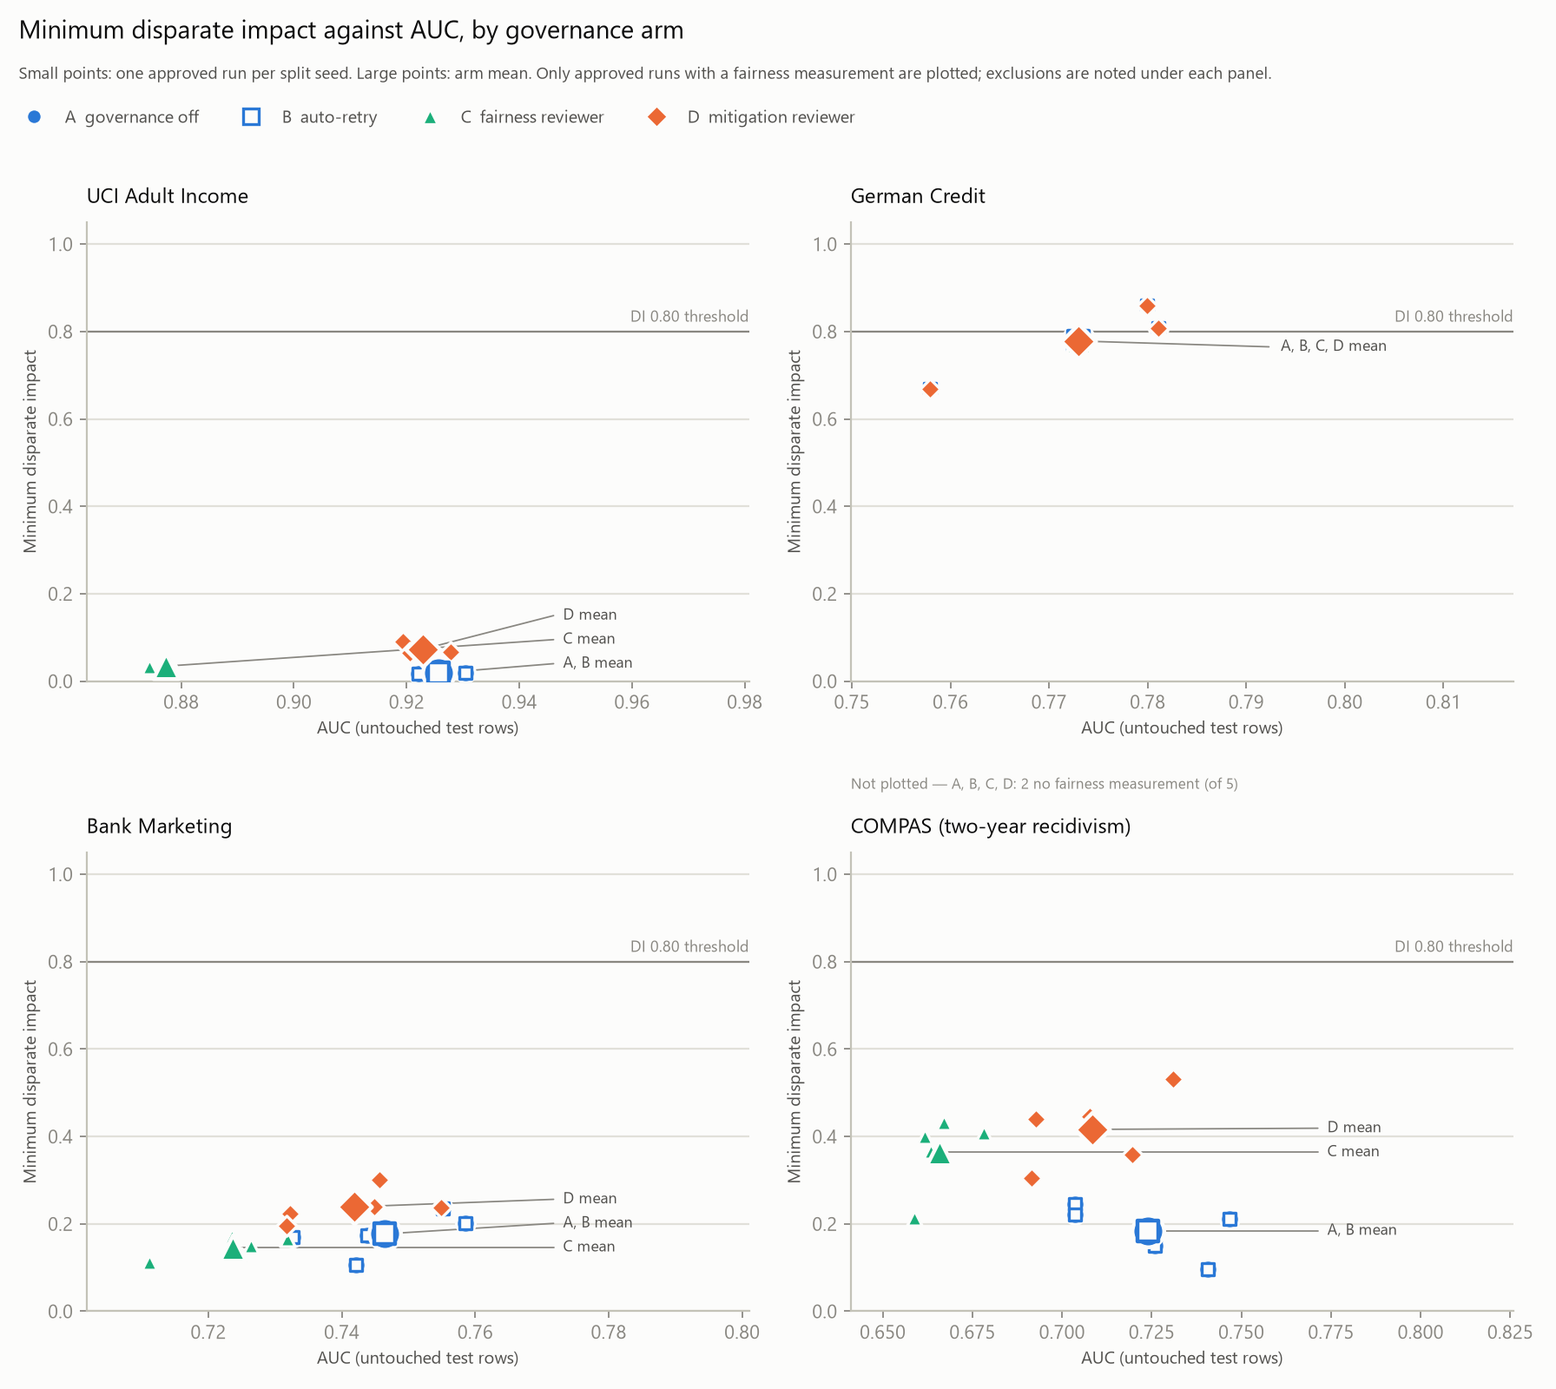
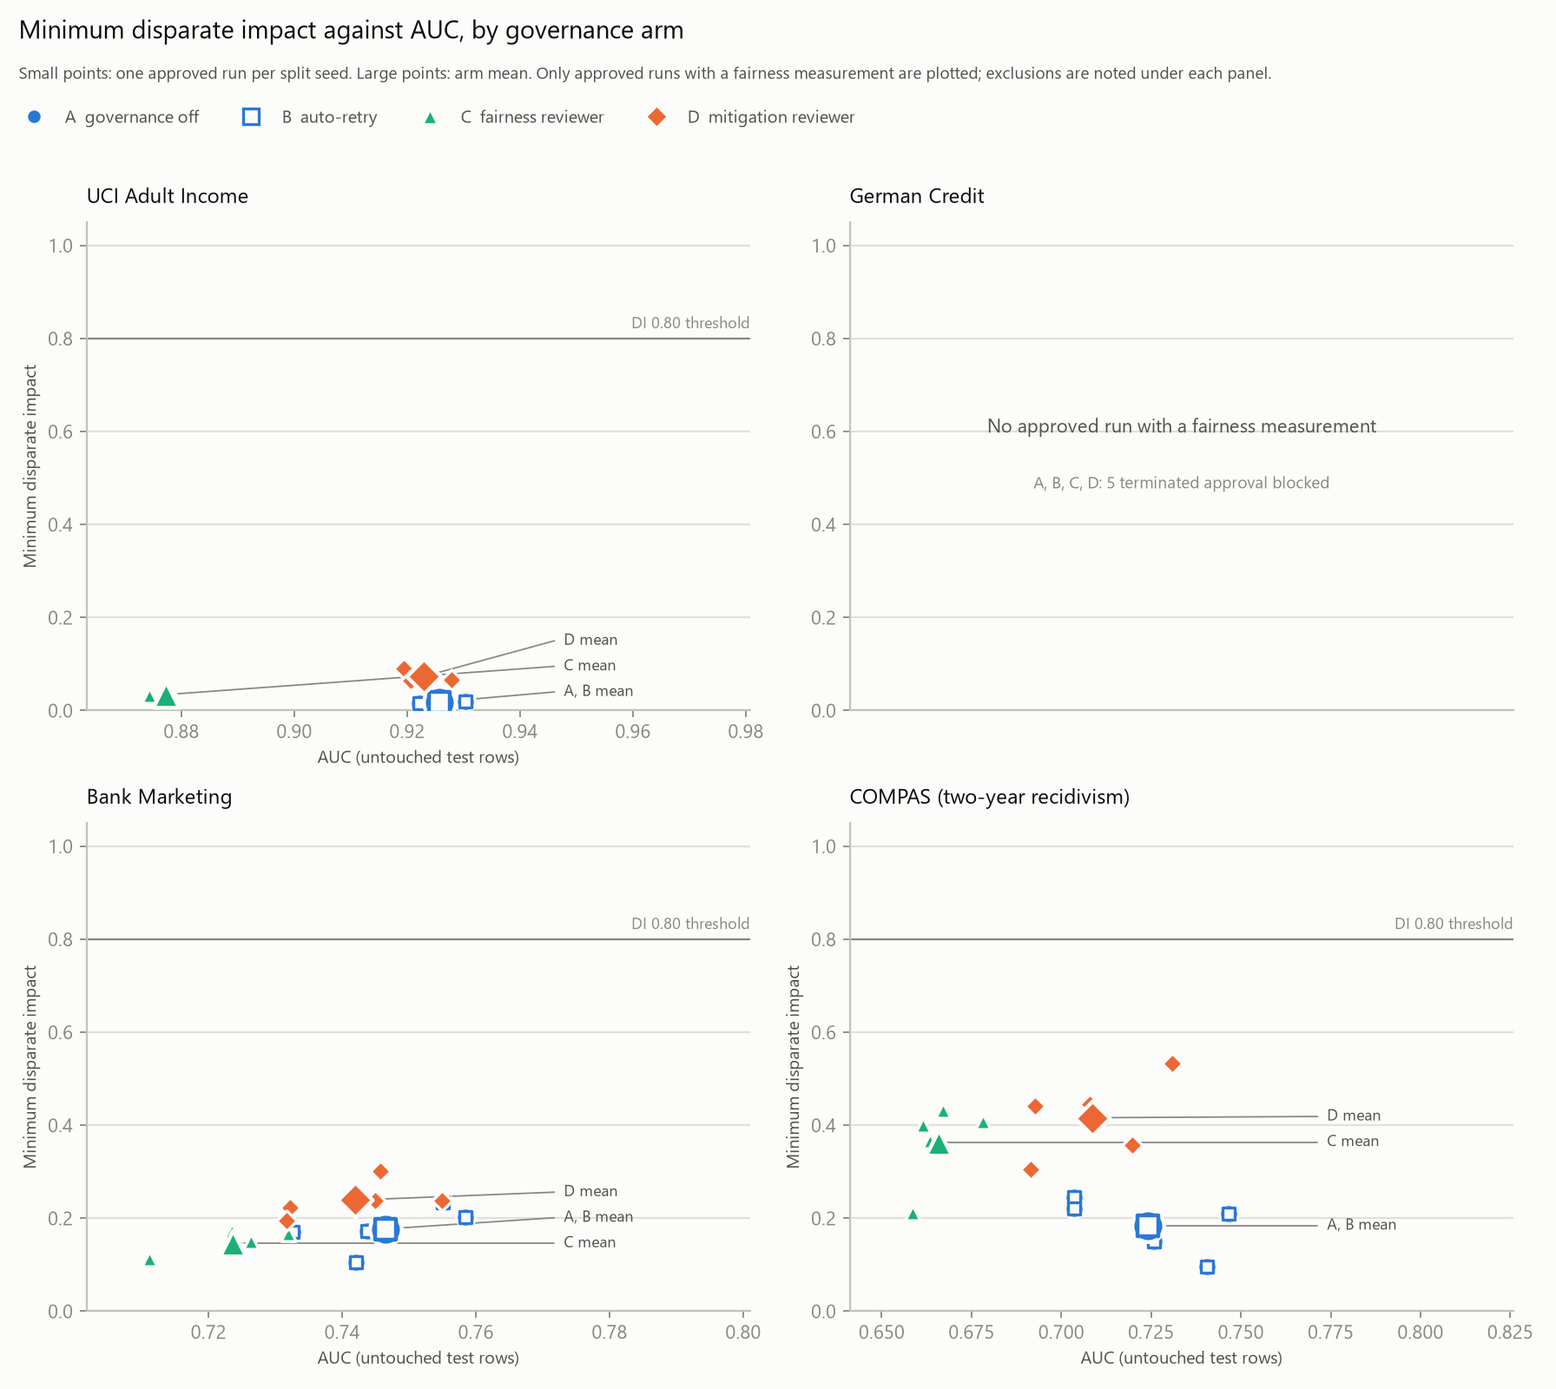
Re-run the evaluation under the governance policy; fix the dirty-tree check
80 runs, replay mode: 0 errors, 80/80 planner calls from cache, produced
from b2fd32b under policy.yaml 1.0.0 (SHA-256 3c05c76e...).

- All 20 German Credit runs now end terminated_approval_blocked. The gate
  verdict was NOT EVALUATED on every seed (no protected attribute auditable
  on 160 validation rows), and the policy refuses to approve a model whose
  fairness was not measured. Before the block, all four arms approved those
  models and the test rows then showed age violations on 3 of 5 seeds
  (d81faa2).
- The other 60 runs match d81faa2, except one AUC in the fourth decimal
  (COMPAS arm C seed 42, same RandomForest, 0.6670 -> 0.6671). All 60
  approved models violate on a protected attribute.

#31: _git_dirty ran after the harness wrote its own tracked result files, so
every manifest written into experiments/results reported git_dirty: true.
The check now excludes experiments/results. This run's manifest still shows
true; no tracked code file was modified during it. Earlier explanations that
attributed the flag to documentation edits were incomplete, and the README
now says so.

Docs: README evaluation table, findings 1, 4 and 5, and provenance;
NEXT_STEPS Step 4 re-run note; PROJECT_REVIEW rows 3.1 and #31.

diff --git a/experiments/run_governance_eval.py b/experiments/run_governance_eval.py
@@ -1046,13 +1046,17 @@ def _git_commit() -> Optional[str]:
 
 def _git_dirty() -> Optional[bool]:
     """
-    True if tracked files differ from HEAD.
+    True if tracked files other than the committed results differ from HEAD.
 
     git_commit alone is misleading when results come from uncommitted code: the
     manifest would name a commit that does not contain the code that produced it.
+    The results directory is excluded: this check runs after the harness has written
+    runs.csv and the trajectory, and counting its own outputs made every run look
+    dirty.
     """
     with contextlib.suppress(Exception):
-        out = subprocess.run(["git", "status", "--porcelain", "--untracked-files=no"],
+        out = subprocess.run(["git", "status", "--porcelain", "--untracked-files=no", "--",
+                              ".", ":(exclude)experiments/results"],
                              cwd=REPO_ROOT, capture_output=True, text=True, timeout=10)
         if out.returncode == 0:
             return bool(out.stdout.strip())

diff --git a/experiments/results/summary.md b/experiments/results/summary.md
@@ -1,8 +1,7 @@
 # Governance evaluation — results
 
 > Generated by `experiments/run_governance_eval.py` (replay mode) at
-> 2026-09-15T16:45:08.586895+00:00. Do not edit by hand; re-run the script.
-> Tables and figure rebuilt from the recorded CSVs at 2026-09-15T16:47:49.669698+00:00.
+> 2026-09-15T17:54:18.292561+00:00. Do not edit by hand; re-run the script.
 
 ## Setup
 
@@ -41,7 +40,7 @@
   planner does not propose them. **Max equal-opportunity difference** is the largest
   true-positive-rate gap between groups; it is reported, but it does not affect the verdict.
 - Runs: 80 · errors: 0 · wall
-  clock: 975.9 s.
+  clock: 991.6 s.
 
 ## Results by dataset
 
@@ -53,10 +52,10 @@
 
 | Arm | Approved | AUC | Accuracy | Fairness evaluated | Approved with a violation | Min disparate impact | Max parity difference | Max equal-opportunity difference | Protected attributes audited | Violated attributes | Reroutes | Retries | Seconds / run |
 |---|---|---|---|---|---|---|---|---|---|---|---|---|---|
-| **A** governance off | 5/5 | 0.926 ± 0.003 | 0.871 ± 0.004 | 5/5 | 5/5 | 0.018 ± 0.002 | 0.246 ± 0.002 | 0.310 ± 0.090 | 3.0 ± 0.0 | 3.00 ± 0.00 | 0.00 ± 0.00 | 0.00 ± 0.00 | 3.1 ± 0.1 |
-| **B** auto-retry | 5/5 | 0.926 ± 0.003 | 0.871 ± 0.004 | 5/5 | 5/5 | 0.018 ± 0.002 | 0.246 ± 0.002 | 0.310 ± 0.090 | 3.0 ± 0.0 | 3.00 ± 0.00 | 0.00 ± 0.00 | 0.00 ± 0.00 | 3.0 ± 0.0 |
-| **C** fairness reviewer | 5/5 | 0.877 ± 0.002 | 0.828 ± 0.001 | 5/5 | 5/5 | 0.034 ± 0.008 | 0.250 ± 0.016 | 0.342 ± 0.064 | 3.0 ± 0.0 | 3.00 ± 0.00 | 2.00 ± 0.00 | 0.00 ± 0.00 | 88.2 ± 1.0 |
-| **D** mitigation reviewer | 5/5 | 0.923 ± 0.003 | 0.869 ± 0.003 | 5/5 | 5/5 | 0.073 ± 0.018 | 0.202 ± 0.004 | 0.231 ± 0.076 | 3.0 ± 0.0 | 3.00 ± 0.00 | 2.00 ± 0.00 | 0.00 ± 0.00 | 7.4 ± 1.5 |
+| **A** governance off | 5/5 | 0.926 ± 0.003 | 0.871 ± 0.004 | 5/5 | 5/5 | 0.018 ± 0.002 | 0.246 ± 0.002 | 0.310 ± 0.090 | 3.0 ± 0.0 | 3.00 ± 0.00 | 0.00 ± 0.00 | 0.00 ± 0.00 | 3.3 ± 0.2 |
+| **B** auto-retry | 5/5 | 0.926 ± 0.003 | 0.871 ± 0.004 | 5/5 | 5/5 | 0.018 ± 0.002 | 0.246 ± 0.002 | 0.310 ± 0.090 | 3.0 ± 0.0 | 3.00 ± 0.00 | 0.00 ± 0.00 | 0.00 ± 0.00 | 3.1 ± 0.1 |
+| **C** fairness reviewer | 5/5 | 0.877 ± 0.002 | 0.828 ± 0.001 | 5/5 | 5/5 | 0.034 ± 0.008 | 0.250 ± 0.016 | 0.342 ± 0.064 | 3.0 ± 0.0 | 3.00 ± 0.00 | 2.00 ± 0.00 | 0.00 ± 0.00 | 86.7 ± 0.6 |
+| **D** mitigation reviewer | 5/5 | 0.923 ± 0.003 | 0.869 ± 0.003 | 5/5 | 5/5 | 0.073 ± 0.018 | 0.202 ± 0.004 | 0.231 ± 0.076 | 3.0 ± 0.0 | 3.00 ± 0.00 | 2.00 ± 0.00 | 0.00 ± 0.00 | 8.9 ± 2.6 |
 
 Arms A and B produced identical results on every seed: the automatic data-quality retry never engaged on this dataset.
 
@@ -68,10 +67,10 @@ Arms A and B produced identical results on every seed: the automatic data-qualit
 
 | Arm | Approved | AUC | Accuracy | Fairness evaluated | Approved with a violation | Min disparate impact | Max parity difference | Max equal-opportunity difference | Protected attributes audited | Violated attributes | Reroutes | Retries | Seconds / run |
 |---|---|---|---|---|---|---|---|---|---|---|---|---|---|
-| **A** governance off | 5/5 | 0.780 ± 0.014 | 0.753 ± 0.012 | 3/5 | 3/3 | 0.778 ± 0.099 | 0.178 ± 0.080 | 0.105 ± 0.039 | 1.0 ± 0.0 | 1.00 ± 0.00 | 0.00 ± 0.00 | 0.00 ± 0.00 | 2.0 ± 0.7 |
-| **B** auto-retry | 5/5 | 0.780 ± 0.014 | 0.753 ± 0.012 | 3/5 | 3/3 | 0.778 ± 0.099 | 0.178 ± 0.080 | 0.105 ± 0.039 | 1.0 ± 0.0 | 1.00 ± 0.00 | 0.00 ± 0.00 | 0.00 ± 0.00 | 2.0 ± 0.7 |
-| **C** fairness reviewer | 5/5 | 0.780 ± 0.014 | 0.753 ± 0.012 | 3/5 | 3/3 | 0.778 ± 0.099 | 0.178 ± 0.080 | 0.105 ± 0.039 | 1.0 ± 0.0 | 1.00 ± 0.00 | 0.00 ± 0.00 | 0.00 ± 0.00 | 2.0 ± 0.7 |
-| **D** mitigation reviewer | 5/5 | 0.780 ± 0.014 | 0.753 ± 0.012 | 3/5 | 3/3 | 0.778 ± 0.099 | 0.178 ± 0.080 | 0.105 ± 0.039 | 1.0 ± 0.0 | 1.00 ± 0.00 | 0.00 ± 0.00 | 0.00 ± 0.00 | 2.0 ± 0.7 |
+| **A** governance off | 0/5 | n/a | n/a | 0/0 | 0/0 | n/a | n/a | n/a | n/a | n/a | 0.00 ± 0.00 | 0.00 ± 0.00 | 1.9 ± 0.6 |
+| **B** auto-retry | 0/5 | n/a | n/a | 0/0 | 0/0 | n/a | n/a | n/a | n/a | n/a | 0.00 ± 0.00 | 0.00 ± 0.00 | 1.9 ± 0.7 |
+| **C** fairness reviewer | 0/5 | n/a | n/a | 0/0 | 0/0 | n/a | n/a | n/a | n/a | n/a | 0.00 ± 0.00 | 0.00 ± 0.00 | 1.8 ± 0.6 |
+| **D** mitigation reviewer | 0/5 | n/a | n/a | 0/0 | 0/0 | n/a | n/a | n/a | n/a | n/a | 0.00 ± 0.00 | 0.00 ± 0.00 | 1.8 ± 0.6 |
 
 Arms A and B produced identical results on every seed: the automatic data-quality retry never engaged on this dataset.
 
@@ -83,10 +82,10 @@ OpenML v10 (46910), the only version with named columns: v1 (1461) and v9 (45065
 
 | Arm | Approved | AUC | Accuracy | Fairness evaluated | Approved with a violation | Min disparate impact | Max parity difference | Max equal-opportunity difference | Protected attributes audited | Violated attributes | Reroutes | Retries | Seconds / run |
 |---|---|---|---|---|---|---|---|---|---|---|---|---|---|
-| **A** governance off | 5/5 | 0.746 ± 0.010 | 0.893 ± 0.002 | 5/5 | 5/5 | 0.177 ± 0.048 | 0.127 ± 0.045 | 0.168 ± 0.093 | 1.0 ± 0.0 | 1.00 ± 0.00 | 0.00 ± 0.00 | 0.00 ± 0.00 | 3.3 ± 1.0 |
-| **B** auto-retry | 5/5 | 0.746 ± 0.010 | 0.893 ± 0.002 | 5/5 | 5/5 | 0.177 ± 0.048 | 0.127 ± 0.045 | 0.168 ± 0.093 | 1.0 ± 0.0 | 1.00 ± 0.00 | 0.00 ± 0.00 | 0.00 ± 0.00 | 2.6 ± 0.3 |
-| **C** fairness reviewer | 5/5 | 0.724 ± 0.008 | 0.887 ± 0.001 | 5/5 | 5/5 | 0.146 ± 0.025 | 0.206 ± 0.029 | 0.272 ± 0.068 | 1.0 ± 0.0 | 1.00 ± 0.00 | 2.00 ± 0.00 | 0.00 ± 0.00 | 61.2 ± 0.2 |
-| **D** mitigation reviewer | 5/5 | 0.742 ± 0.010 | 0.893 ± 0.001 | 5/5 | 5/5 | 0.239 ± 0.039 | 0.083 ± 0.017 | 0.105 ± 0.030 | 1.0 ± 0.0 | 1.00 ± 0.00 | 2.00 ± 0.00 | 0.00 ± 0.00 | 5.6 ± 1.4 |
+| **A** governance off | 5/5 | 0.746 ± 0.010 | 0.893 ± 0.002 | 5/5 | 5/5 | 0.177 ± 0.048 | 0.127 ± 0.045 | 0.168 ± 0.093 | 1.0 ± 0.0 | 1.00 ± 0.00 | 0.00 ± 0.00 | 0.00 ± 0.00 | 3.1 ± 0.9 |
+| **B** auto-retry | 5/5 | 0.746 ± 0.010 | 0.893 ± 0.002 | 5/5 | 5/5 | 0.177 ± 0.048 | 0.127 ± 0.045 | 0.168 ± 0.093 | 1.0 ± 0.0 | 1.00 ± 0.00 | 0.00 ± 0.00 | 0.00 ± 0.00 | 2.5 ± 0.2 |
+| **C** fairness reviewer | 5/5 | 0.724 ± 0.008 | 0.887 ± 0.001 | 5/5 | 5/5 | 0.146 ± 0.025 | 0.206 ± 0.029 | 0.272 ± 0.068 | 1.0 ± 0.0 | 1.00 ± 0.00 | 2.00 ± 0.00 | 0.00 ± 0.00 | 61.6 ± 0.7 |
+| **D** mitigation reviewer | 5/5 | 0.742 ± 0.010 | 0.893 ± 0.001 | 5/5 | 5/5 | 0.239 ± 0.039 | 0.083 ± 0.017 | 0.105 ± 0.030 | 1.0 ± 0.0 | 1.00 ± 0.00 | 2.00 ± 0.00 | 0.00 ± 0.00 | 7.7 ± 1.8 |
 
 Arms A and B produced identical results on every seed: the automatic data-quality retry never engaged on this dataset.
 
@@ -98,10 +97,10 @@ OpenML v3 (42192). Race, age category and charge degree arrive pre-one-hot-encod
 
 | Arm | Approved | AUC | Accuracy | Fairness evaluated | Approved with a violation | Min disparate impact | Max parity difference | Max equal-opportunity difference | Protected attributes audited | Violated attributes | Reroutes | Retries | Seconds / run |
 |---|---|---|---|---|---|---|---|---|---|---|---|---|---|
-| **A** governance off | 5/5 | 0.724 ± 0.020 | 0.678 ± 0.018 | 5/5 | 5/5 | 0.184 ± 0.061 | 0.619 ± 0.097 | 0.579 ± 0.120 | 4.0 ± 0.0 | 4.00 ± 0.00 | 0.00 ± 0.00 | 0.00 ± 0.00 | 1.0 ± 0.2 |
-| **B** auto-retry | 5/5 | 0.724 ± 0.020 | 0.678 ± 0.018 | 5/5 | 5/5 | 0.184 ± 0.061 | 0.619 ± 0.097 | 0.579 ± 0.120 | 4.0 ± 0.0 | 4.00 ± 0.00 | 0.00 ± 0.00 | 0.00 ± 0.00 | 0.8 ± 0.0 |
-| **C** fairness reviewer | 5/5 | 0.666 ± 0.008 | 0.627 ± 0.012 | 5/5 | 5/5 | 0.364 ± 0.088 | 0.391 ± 0.065 | 0.362 ± 0.150 | 4.0 ± 0.0 | 3.60 ± 0.55 | 2.00 ± 0.00 | 0.00 ± 0.00 | 9.1 ± 0.3 |
-| **D** mitigation reviewer | 5/5 | 0.709 ± 0.017 | 0.657 ± 0.014 | 5/5 | 5/5 | 0.416 ± 0.088 | 0.231 ± 0.035 | 0.251 ± 0.054 | 4.0 ± 0.0 | 3.20 ± 0.45 | 2.00 ± 0.00 | 0.00 ± 0.00 | 1.8 ± 0.1 |
+| **A** governance off | 5/5 | 0.724 ± 0.020 | 0.678 ± 0.018 | 5/5 | 5/5 | 0.184 ± 0.061 | 0.619 ± 0.097 | 0.579 ± 0.120 | 4.0 ± 0.0 | 4.00 ± 0.00 | 0.00 ± 0.00 | 0.00 ± 0.00 | 1.1 ± 0.1 |
+| **B** auto-retry | 5/5 | 0.724 ± 0.020 | 0.678 ± 0.018 | 5/5 | 5/5 | 0.184 ± 0.061 | 0.619 ± 0.097 | 0.579 ± 0.120 | 4.0 ± 0.0 | 4.00 ± 0.00 | 0.00 ± 0.00 | 0.00 ± 0.00 | 1.1 ± 0.1 |
+| **C** fairness reviewer | 5/5 | 0.666 ± 0.008 | 0.627 ± 0.012 | 5/5 | 5/5 | 0.364 ± 0.088 | 0.391 ± 0.065 | 0.362 ± 0.150 | 4.0 ± 0.0 | 3.60 ± 0.55 | 2.00 ± 0.00 | 0.00 ± 0.00 | 9.2 ± 0.1 |
+| **D** mitigation reviewer | 5/5 | 0.709 ± 0.017 | 0.657 ± 0.014 | 5/5 | 5/5 | 0.416 ± 0.088 | 0.231 ± 0.035 | 0.251 ± 0.054 | 4.0 ± 0.0 | 3.20 ± 0.45 | 2.00 ± 0.00 | 0.00 ± 0.00 | 2.4 ± 0.4 |
 
 Arms A and B produced identical results on every seed: the automatic data-quality retry never engaged on this dataset.
 

diff --git a/README.md b/README.md
@@ -230,18 +230,19 @@ they share a value.
 | Dataset | AUC (test rows) | Violated protected attributes | Min disparate impact | Max parity difference |
 |---|---|---|---|---|
 | UCI Adult (48,842) | 0.926 · 0.877 · 0.923 | 3.0 · 3.0 · 3.0 | 0.018 · 0.034 · 0.073 | 0.246 · 0.250 · 0.202 |
-| German Credit (1,000) ‡ | 0.780 · 0.780 · 0.780 | 1.0 · 1.0 · 1.0 | 0.778 · 0.778 · 0.778 | 0.178 · 0.178 · 0.178 |
+| German Credit (1,000) ‡ | — | — | — | — |
 | Bank Marketing (45,211) | 0.746 · 0.724 · 0.742 | 1.0 · 1.0 · 1.0 | 0.177 · 0.146 · 0.239 | 0.127 · 0.206 · 0.083 |
 | COMPAS (5,278) | 0.724 · 0.666 · 0.709 | 4.0 · 3.6 · 3.2 | 0.184 · 0.364 · 0.416 | 0.619 · 0.391 · 0.231 |
 
-‡ German Credit's fairness columns average the 3 of 5 splits whose test rows could audit a
-protected attribute; see finding 4.
+‡ No German Credit model was approved. On every split the gate could not audit a protected
+attribute, and the governance policy blocks approving a model whose fairness was not
+measured; see finding 4.
 
 **Findings.**
 
-1. **No approved model passed.** On the test rows, 72 of 80 approved models violated on a
-   protected attribute and 8 were NOT EVALUATED (German Credit seeds 19 and 42 under every
-   arm, where no protected attribute could be audited). None passed.
+1. **No approved model passed.** 60 of 80 runs ended with an approved model, and all 60
+   violated on a protected attribute on their test rows. The other 20 — every German Credit
+   run — ended with approval blocked by the governance policy (finding 4).
 2. **Rejecting a model and taking the next best is not a fairness intervention.** Arm C
    rerouted 15 of 20 runs; in all 15 the approved model had the same number of violated
    protected attributes as the first. It cost test AUC on every dataset it touched: −0.049 on
@@ -253,20 +254,20 @@ protected attribute; see finding 4.
    0.42 and max parity difference fell from 0.62 to 0.23; on Adult min DI rose from 0.018 to
    0.073. Every run still violated: two reweighings, capped by two reroutes, cannot close gaps
    this large.
-4. **The gate cannot act on what its validation rows cannot measure.** On German Credit's
-   160-row validation split, no protected attribute could be audited at the gate on any of the
-   5 seeds (the age bands never reached 30 rows, and `job` is advisory). The verdict was NOT
-   EVALUATED, so the scripted reviewers of arms C and D approved without rejecting, and all
-   four arms are identical. On the 200 test rows, age could be audited on 3 seeds, and all 3
-   violated. A reviewer who approves a NOT EVALUATED model approves blind. The previous run's
-   two German Credit passes came from reweighing age, which this gate never saw. A policy that
-   blocks approval of an unevaluated model (Steps 4–5), or a larger validation split for small
-   datasets, would change this.
+4. **The gate cannot act on what its validation rows cannot measure — so the policy refuses
+   to approve.** On German Credit's 160-row validation split, no protected attribute could be
+   audited at the gate on any of the 5 seeds (the age bands never reached 30 rows, and `job`
+   is advisory), so every gate verdict was NOT EVALUATED. Before the approval block, all four
+   arms approved those models anyway, and the untouched test rows then showed age violations
+   on 3 of 5 seeds (results at `d81faa2`): reviewers had approved blind. Under the governance
+   policy's default, approving a model whose fairness was not measured is refused, so all 20
+   German Credit runs end without an approved model. The underlying problem — a validation
+   split too small to audit a small dataset's protected groups — is still open.
 5. **Gate numbers are optimistic, as they should be expected to be.** Models are chosen on the
-   validation rows, so the gate overstates the test result: German Credit 0.805 at the gate
-   against 0.780 on test, COMPAS 0.735 against 0.724. For arms A and B, where ranking rows are
-   the only difference from the previous run, ranking on validation rows changed the selected
-   model in 16 of 40 runs.
+   validation rows, so the gate overstates the test result: COMPAS 0.735 at the gate against
+   0.724 on test (arms A/B), and German Credit 0.805 against 0.780 in the run before the
+   approval block. Compared with `75b96c9`, which ranked models on the test rows, ranking on
+   validation rows changed the selected model in 16 of 40 arm A/B runs.
 6. **The automatic data-quality retry never engaged.** Benchmark data passes the quality
    gate first time, so arms A and B coincide. That loop is exercised only by the synthetic
    tests.
@@ -350,13 +351,16 @@ saved CSVs, in seconds:
 python experiments/run_governance_eval.py --summarise-only
 ```
 
-These results were produced from commit `8909818`. The manifest records `git_dirty: true`
-because intersectional reporting, dashboard fixes and documentation were being written while
-the run was in progress; the running process had already loaded the committed code, and none
-of those changes alter a recorded result. The tables and figure were then rebuilt with
-`--summarise-only` to add the per-panel exclusion notes. Earlier results remain in git history:
-the first run at `363ce53`, the corrected-metrics run at `ab2d12f`, and the first arm-D run
-(test rows at the gate, every audited attribute in the verdict) at `75b96c9`.
+These results were produced from commit `b2fd32b` under `policy.yaml` version 1.0.0 (SHA-256
+`3c05c76e…`, recorded in the manifest). The manifest's `git_dirty: true` is an artifact of the
+harness, not a change to the code: it checked the working tree after writing its own result
+files into the tracked `experiments/results/`, so every manifest produced this way reports
+dirty (fixed for future runs; earlier manifests overstate it too). No tracked code file was
+modified during this run. Compared with the previous results, every run outside German
+Credit is identical except one AUC that differs in the fourth decimal (COMPAS arm C, seed 42:
+0.6670 → 0.6671). Earlier results remain in git history: the first run at `363ce53`, the
+corrected-metrics run at `ab2d12f`, the first arm-D run (test rows at the gate, every audited
+attribute in the verdict) at `75b96c9`, and the run before the approval block at `d81faa2`.
 
 ---
 

diff --git a/PROJECT_REVIEW.md b/PROJECT_REVIEW.md
@@ -44,7 +44,8 @@
 | #23 **New:** max-vs-min disparate impact had no minimum group size — a 4-person Adult group set DI to 0.0 | Fixed — groups under 30 rows excluded and listed |
 | #24 **New:** `age` was proposed by the planner on every benchmark and never audited | Fixed — banded <25 / 25-59 / 60+ |
 | #25 **New:** skipped attributes were computed but never shown on the dashboard | Fixed — "Not audited" list with reasons |
-| 3.1 Quantitative governance evaluation: 4 datasets × 4 arms × 5 seeds, replay-verified | **Done**, re-run with the validation gate and protected-only verdict — on test rows 72/80 approved models violate, 8 not evaluated, 0 pass; see `experiments/results/summary.md` |
+| 3.1 Quantitative governance evaluation: 4 datasets × 4 arms × 5 seeds, replay-verified | **Done**, re-run under the governance policy — 60/80 runs approved and all 60 violate on test rows; all 20 German Credit runs blocked (fairness not measurable at the gate); see `experiments/results/summary.md` |
+| #31 **New:** the evaluation's `git_dirty` flag was computed after the harness wrote its own tracked result files, so it was true for every run into `experiments/results/` | Fixed — result files excluded from the check |
 | #26 **New:** a verdict reads "passed" when a protected attribute present in the data could not be audited (German Credit seed 19 passed on `job` alone; age bands too small) | Fixed — verdict is `None` (NOT FULLY EVALUATED) with the gap named; seed 19 now reads that under every arm |
 | 3.2 Reviewer-triggered bias mitigation (reweighing), evaluated as arm D | **Done** — fewer violated attributes in 6/19 rerouted runs (model switching: 2/19) at a far smaller AUC cost; still not compliant on Adult, Bank Marketing or COMPAS |
 | Protected-only fairness verdict; unprotected attributes advisory (user decision) | **Done** |

diff --git a/NEXT_STEPS.md b/NEXT_STEPS.md
@@ -568,6 +568,14 @@ properly.
   manifest records the base policy's version and hash; blocked runs get the status
   `terminated_approval_blocked`.
 
+**Re-run under the policy** (80 runs, 0 errors, 80/80 from cache, from `b2fd32b`): all 20
+German Credit runs now end `terminated_approval_blocked` — the gate verdict was NOT
+EVALUATED on every seed, not just the 8 whose test rows were unmeasurable, because the block
+acts on the gate's validation-row verdict. The other 60 runs are identical to `d81faa2`
+(one AUC differs in the fourth decimal); all 60 approved models violate. Found along the
+way: the harness's `git_dirty` flag counted its own result files, so it was true for every
+run writing into `experiments/results/` (#31, fixed).
+
 **Still open:** selecting a policy per run (e.g. `strict` / `default`) from the
 dashboard; whether error-rate gaps and intersectional gaps should count toward the verdict
 (both are still hard-coded as reported-only, deliberately, until someone decides);
